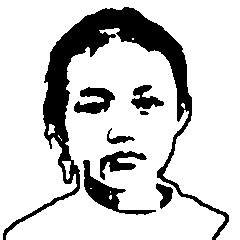
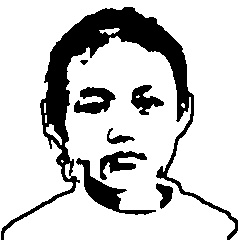
17.10.25 11:18

diff --git a/faceFeature/partitionMethod.py b/faceFeature/partitionMethod.py
@@ -142,7 +142,7 @@ def skinModel(srcImg):
                 ########################################################################
             # skin color detection
             #if Cb >= 80 and Cb <= 127 and Cr >= 141 and Cr <= 173:
-            if Cb >= 77 and Cb <= 127 and Cr >= 140and Cr <= 173:
+            if Cb >= 80 and Cb <= 127 and Cr >= 141and Cr <= 173:
                 skin = 1
                 # print 'Skin detected!'
             if 0 == skin:
@@ -150,7 +150,6 @@ def skinModel(srcImg):
             else:
                 imgSkin[r,c] = 255
                 # display original image and skin image
-    cv2.imshow("skin",imgSkin)
     return imgSkin
 #通过漫水填充去除背景
 
@@ -243,6 +242,15 @@ def meanBrightness(imgSKIN,imgGRAY):
         return count,brightness/count
     else:
         return count,0
+
+#获取最大的轮廓区域
+def getMaxArea(new_skin):
+    img,contours, hierarchy = cv2.findContours(new_skin, cv2.RETR_TREE, cv2.CHAIN_APPROX_SIMPLE)
+    maxValue = 0
+    for i,contour in enumerate(contours):
+        if cv2.contourArea(contour)>maxValue:
+            maxValue = cv2.contourArea(contour)
+    return maxValue
 #轮廓完善
 def skeletonComplete(imgResult,imgSKIN,imgFace):
     kernel = cv2.getStructuringElement(cv2.MORPH_RECT, (3, 3))
@@ -253,13 +261,9 @@ def skeletonComplete(imgResult,imgSKIN,imgFace):
     new_skin = cv2.erode(new_skin, kernel)
     new_skin = cv2.dilate(new_skin, kernel)
     new_skin = RemoveSmallRegion(new_skin,3000,0,1)
-    new_skin = RemoveSmallRegion(new_skin,3000,1,1)
-    # cv2.imshow("new_skinHAHA",new_skin)
-    # new_skin = delete_jut(new_skin, 10, 10, 0)
-    # new_skin = delete_jut(new_skin, 10, 10, 1)
-    # new_skin = RemoveSmallRegion(new_skin,2000,0,1)
-    # new_skin = RemoveSmallRegion(new_skin,2000,1,1)
-    #imgResult = hairProcess(new_skin,imgFace,imgResult)
+    maxth = getMaxArea(new_skin)
+    new_skin = RemoveSmallRegion(new_skin,maxth-500,1,1)
+
 
     cv2.imshow("new_skin",new_skin)
 
@@ -373,7 +377,6 @@ def RemoveSmallRegion(src,AreaLimit,CheckMode,NeiborMode):
                 else:
                     CheckResult = 1
                     RemoveCount +=1
-
                 for z in range(len(GrowBuffer)):
                     CurrX = GrowBuffer[z][0]
                     CurrY = GrowBuffer[z][1]
@@ -537,7 +540,7 @@ def divisionThreshold(imgSKIN,imgFace,imgCanny,imgHair):
     for i in range(newSkin.shape[0]):
         for j in range(newSkin.shape[1]):
             if newSkin[i, j] > 100:
-                if newFace[i, j] < 20 and i < newSkin.shape[0] / 2:
+                if newHair[i,j] == 0 and newFace[i, j] < 20 and i < newSkin.shape[0] / 2:
                     dst[i, j] = 0
     ret,dst = cv2.threshold(dst,100,255,cv2.THRESH_BINARY)
     return dst,newSkin,newFace
@@ -565,7 +568,6 @@ def hairProcess(imageSrc):
     cv2.floodFill(imgRGB, mask, (y1 - 2,x1 + 2),(0, 0, 0),(3,3,3),(3,3,3), 8)
     print("2",x1,y1)
     imghair = cv2.cvtColor(imgRGB,cv2.COLOR_BGR2GRAY);
-    cv2.imshow("hairdetect",imgRGB)
     return imghair
 
 
@@ -590,15 +592,19 @@ def processImg(img):
 
     #获取imgFace的肤色图
     imgFace_Skin = skinModel(imgFace)
+    cv2.imshow("skin", imgFace_Skin)
     ####################################################
     #对肤色图进行修剪
-    skinTemp = cv2.erode(imgFace_Skin, kernel)
-    skinTemp = cv2.dilate(skinTemp, kernel)
-    skinTemp = cv2.dilate(skinTemp, kernel)
+    #skinTemp = cv2.erode(imgFace_Skin, kernel)
+    imgFace_Skin = cv2.dilate(imgFace_Skin, kernel)
+    imgFace_Skin = cv2.dilate(imgFace_Skin, kernel)
+    imgFace_Skin = cv2.dilate(imgFace_Skin, kernel)
+
     #harlan
-    imgFace_Skin = RemoveSmallRegion(skinTemp, 2000, 1, 1)
-    imgFace_Skin = RemoveSelectRegion(imgFace_Skin, 2000,200, 0, 1)
-    imgFace_Skin = RemoveSelectRegion(imgFace_Skin, 250,1, 0, 1)
+    #imgFace_Skin = RemoveSmallRegion(skinTemp, 2000, 1, 1)
+    #imgFace_Skin = RemoveSelectRegion(imgFace_Skin, 2000,200, 0, 1)
+    #imgFace_Skin = RemoveSelectRegion(imgFace_Skin, 250,1, 0, 1)
+    imgFace_Skin = RemoveSelectRegion(imgFace_Skin,3000,100,0,1)
     imgHair = hairProcess(imgFace)
     cv2.imshow("skinTemp", imgFace_Skin)
 
@@ -616,7 +622,7 @@ def processImg(img):
 #整套图片处理
 def createResult():
     i = 1
-    while i <= 44:
+    while i <= 52:
         print(i)
         img = cv2.imread("img/" + str(i) + ".jpg", 1)
         img = cv2.medianBlur(img, 3)
@@ -629,11 +635,11 @@ def createResult():
         i = i + 1
 #单个图片处理
 def unitTest():
-    img = cv2.imread("img/42.jpg",1)
+    img = cv2.imread("img/6.jpg",1)
     img = cv2.medianBlur(img,3)
     dst = processImg(img)
     dst = cv2.medianBlur(dst,3)
-    dst = RemoveSelectRegion(dst,20,0,0,1)
+    dst = RemoveSelectRegion(dst,100,30,0,1)
     dst = delete_jut(dst,1,1,1)
     dst = delete_jut(dst,1,1,0)
     cv2.imshow("result",dst)
